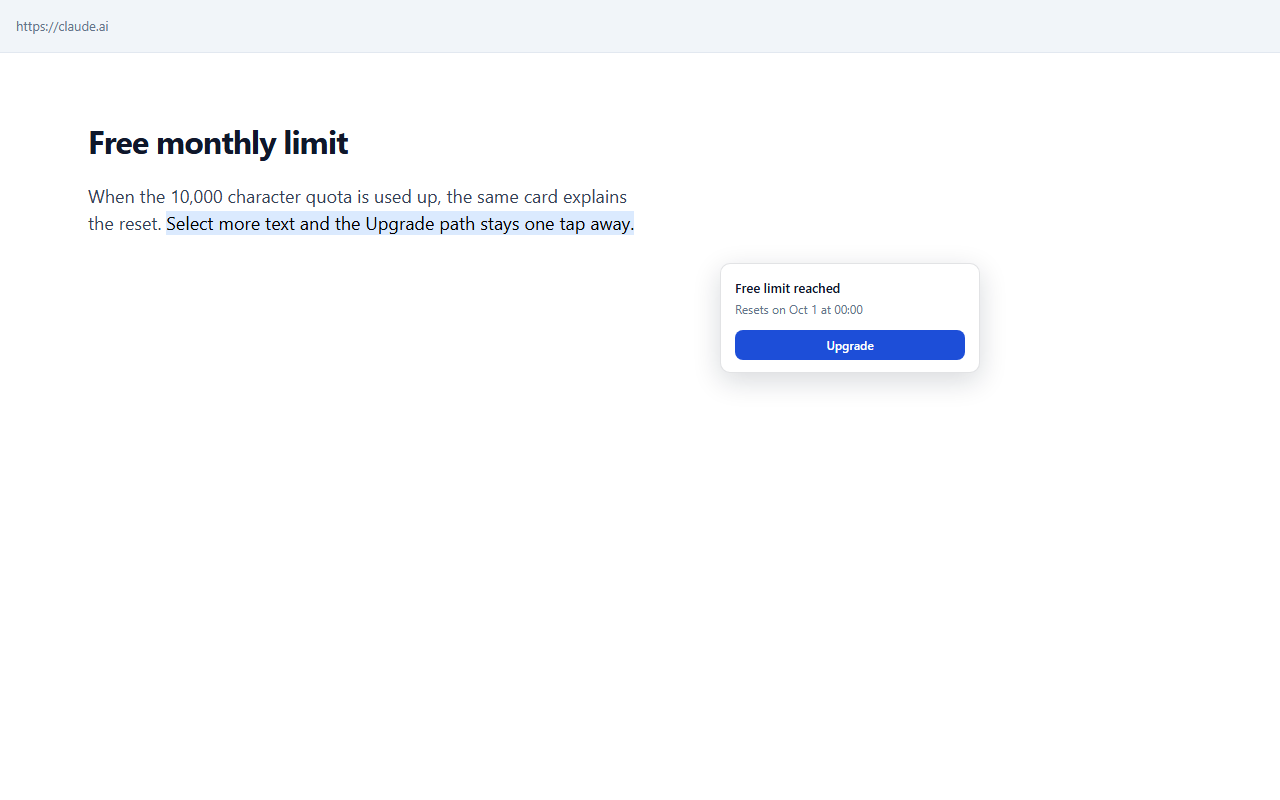
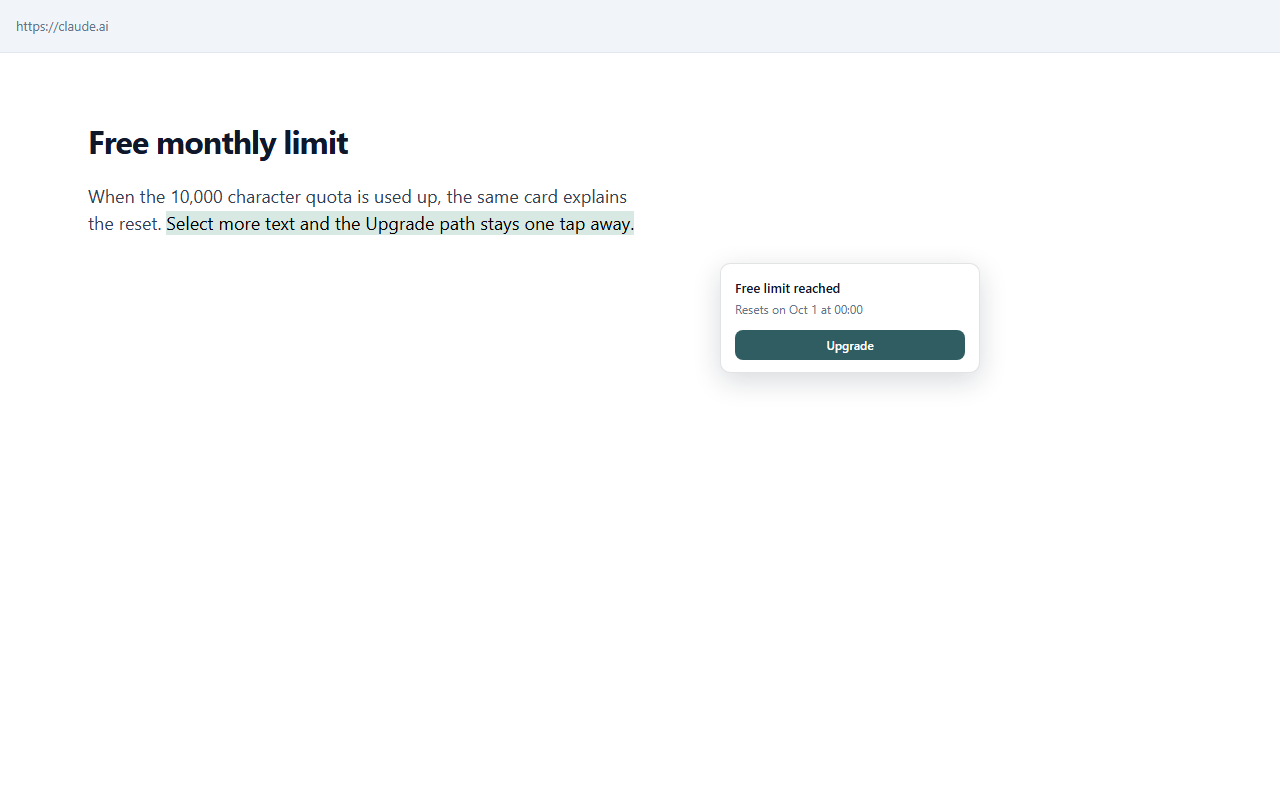
Soften store graphics and ship exact 440x280 JPEG tile.
Prefer Tools category; use opaque store-icon and JPEG screenshots for CWS uploads.

Changed region(s): [[0.125, 0.25, 0.5, 0.3125], [0.5625, 0.4062, 0.75, 0.4688]]

diff --git a/store/shots/tile.html b/store/shots/tile.html
@@ -10,41 +10,50 @@
         width: 440px;
         height: 280px;
         overflow: hidden;
-        font: 16px/1.35 -apple-system, BlinkMacSystemFont, 'Segoe UI', 'PingFang SC',
-          'Microsoft YaHei', sans-serif;
-        color: #fff;
-        background: #1d4ed8;
+        font: 16px/1.35 'Segoe UI', 'PingFang SC', 'Microsoft YaHei', sans-serif;
+        color: #1a2b2e;
+        background: #e8eee9;
       }
       .tile {
         box-sizing: border-box;
         width: 440px;
         height: 280px;
         padding: 28px 28px 24px;
-        background: linear-gradient(160deg, #3b82f6 0%, #1d4ed8 70%);
+        background:
+          radial-gradient(120% 90% at 100% 0%, rgba(90, 140, 130, 0.18), transparent 55%),
+          linear-gradient(155deg, #f4f6f3 0%, #e4ebe6 55%, #d7e2dc 100%);
       }
       .mark {
+        display: flex;
+        align-items: center;
+        justify-content: center;
         width: 48px;
         height: 48px;
         margin-bottom: 18px;
         border-radius: 12px;
-        background: #fff center/40px 40px no-repeat;
-        background-image: url('../../icons/icon128.png');
+        background: #2f5d62;
+        color: #f4f7f5;
+        font-size: 15px;
+        font-weight: 600;
+        letter-spacing: -0.02em;
       }
       h1 {
         margin: 0 0 8px;
         font-size: 26px;
         letter-spacing: -0.03em;
+        color: #1a2b2e;
       }
       p {
         margin: 0;
-        color: #dbeafe;
+        max-width: 320px;
+        color: #4d6468;
         font-size: 15px;
       }
     </style>
   </head>
   <body>
     <div class="tile">
-      <div class="mark"></div>
+      <div class="mark" aria-hidden="true">A↔文</div>
       <h1>Zero Click Translate</h1>
       <p>Select text. The translation appears beside it.</p>
     </div>

diff --git a/store/shots/overlay.html b/store/shots/overlay.html
@@ -10,7 +10,7 @@
         width: 1280px;
         height: 800px;
         overflow: hidden;
-        background: #e8eef6;
+        background: #e8ece8;
         font: 16px/1.55 -apple-system, BlinkMacSystemFont, 'Segoe UI', 'PingFang SC',
           'Microsoft YaHei', sans-serif;
         color: #0f172a;
@@ -56,7 +56,7 @@
       }
       .kicker {
         margin: 0 0 10px;
-        color: #2563eb;
+        color: #3f6f74;
         font-size: 12px;
         font-weight: 700;
         letter-spacing: 0.08em;
@@ -74,7 +74,7 @@
         font-size: 18px;
       }
       mark {
-        background: #dbeafe;
+        background: #d8e8e2;
         color: inherit;
         padding: 0 2px;
       }

diff --git a/store/shots/popup.html b/store/shots/popup.html
@@ -43,7 +43,7 @@
         width: 28px;
         height: 28px;
         border-radius: 8px;
-        background: #2563eb
+        background: #2f5d62
           url('../../icons/icon128.png') center/20px 20px no-repeat;
       }
       .page {
@@ -71,7 +71,7 @@
         width: 36px;
         height: 20px;
         border-radius: 999px;
-        background: #2563eb;
+        background: #2f5d62;
         position: relative;
       }
       .switch::after {

diff --git a/store/shots/quota.html b/store/shots/quota.html
@@ -40,7 +40,7 @@
         font-size: 18px;
       }
       mark {
-        background: #dbeafe;
+        background: #d8e8e2;
       }
       .zct-card {
         position: absolute;
@@ -68,7 +68,7 @@
         margin-top: 12px;
         padding: 6px 12px;
         border-radius: 8px;
-        background: #1d4ed8;
+        background: #2f5d62;
         color: #fff;
         font-size: 12px;
         font-weight: 600;

diff --git a/store/shots/icon-capture.html b/store/shots/icon-capture.html
@@ -1,0 +1,3 @@
+<!doctype html><html><body style='margin:0;width:128px;height:128px;overflow:hidden;background:transparent'>
+<img src='/icons/icon.svg' width='128' height='128' style='display:block'/>
+</body></html>

diff --git a/STORE_LISTING.md b/STORE_LISTING.md
@@ -1,6 +1,8 @@
 # Chrome Web Store listing copy
 
-Paste these fields into the developer dashboard. Category: **Productivity**. Language: English (United States). Add a Chinese (China) listing with the Chinese block below.
+Paste these fields into the developer dashboard. Language: English (United States). Add a Chinese (China) listing with the Chinese block below.
+
+**Category:** prefer **Tools**. If that is missing, try **Workflow & Planning** or **Education**. Do not block on “Productivity” — some developer dashboards hide or grey it out; pick the closest available Tools-like option and continue.
 
 Privacy policy URL (preferred, after GitHub Pages is enabled on `main` / root):
 
@@ -89,8 +91,8 @@ Send the selected text to our translate API (`/register`, `/translate`).
 
 ## Images to upload
 
-From `store/listing/` after screenshots are generated:
+From `store/listing/`:
 
-- Store icon: `icons/icon128.png`
-- Small tile: `tile-440x280.png`
-- Screenshots (1280×800): `shot-overlay.png`, `shot-popup.png`, `shot-quota.png`
+- Store icon: `store-icon-128.png` (opaque 128×128; prefer this over toolbar `icons/icon128.png` if upload complains about transparency)
+- Small tile: **`tile-440x280.jpg`** (exact 440×280 JPEG — use this if PNG is rejected)
+- Screenshots (1280×800): prefer `shot-overlay.jpg`, `shot-popup.jpg`, `shot-quota.jpg`

diff --git a/store/SUBMIT.md b/store/SUBMIT.md
@@ -21,9 +21,10 @@
   `https://zmovo.github.io/zero-click-translate/privacy.html`  
   Interim: `https://github.com/zmovo/zero-click-translate/blob/main/PRIVACY.md`
 - Homepage / support: `https://github.com/zmovo/zero-click-translate`
-- Store icon: `icons/icon128.png`
-- Small tile: `store/listing/tile-440x280.png`
-- Screenshots: `store/listing/shot-overlay.png`, `shot-popup.png`, `shot-quota.png`
+- Store icon: `store/listing/store-icon-128.png`
+- Small tile: `store/listing/tile-440x280.jpg` (exact 440×280; use JPEG if PNG is rejected)
+- Screenshots: `store/listing/shot-overlay.jpg`, `shot-popup.jpg`, `shot-quota.jpg`
+- Category: **Tools** (or Workflow & Planning / Education if Tools is unavailable)
 
 ## Single purpose (required)
 
